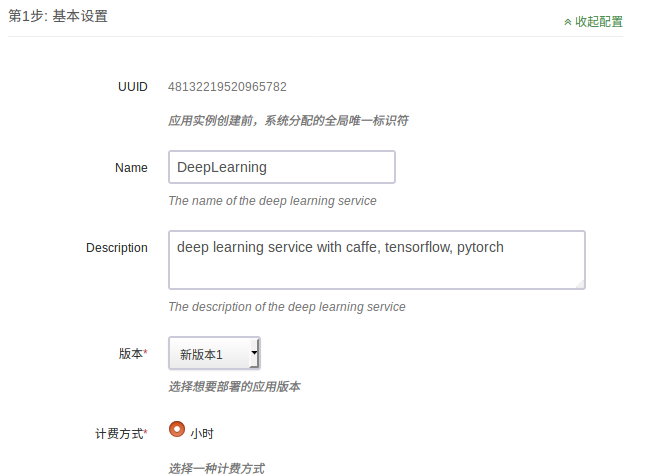
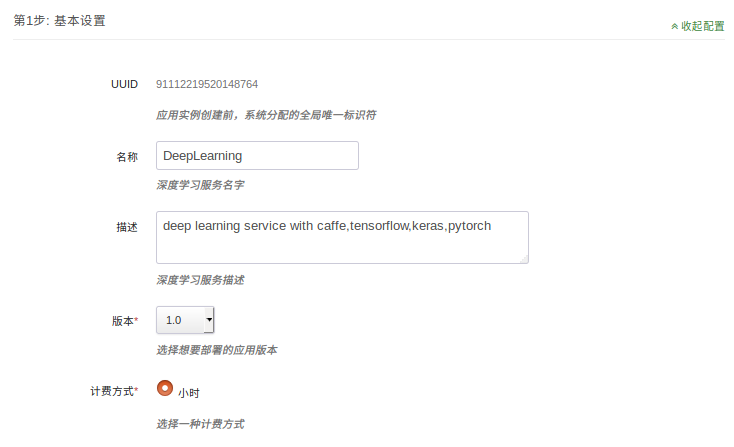
update

diff --git a/README.md b/README.md
@@ -1,11 +1,11 @@
 # DeepLearning on QingCloud AppCenter 用户指南
 ## 深度学习简介
-2016年AlphaGo战胜李世石，预示我们进入了AI时代。深度学习是AI的核心技术，在图像分类，自然语言处理，无人驾驶等众多领域显示出了强大的能力，各大巨头纷纷投入巨资研发。语音助手，人脸识别，外文翻译等等，AI已融入到了我们生活的方方面面，极大了促进了社会的发展。其中Caffe, TensorFlow, PyTorch是主流的深度学习框架，拥有强大的社区支持，是实践深度学习不可或缺的工具。  
+2016年AlphaGo战胜李世石，预示我们进入了AI时代。深度学习是AI的核心技术，在图像分类，自然语言处理，无人驾驶等众多领域显示出了强大的能力，各大巨头纷纷投入巨资研发。语音助手，人脸识别，外文翻译等等，AI已融入到了我们生活的方方面面，极大了促进了社会的发展。其中Caffe, TensorFlow,Keras，PyTorch是主流的深度学习框架，拥有强大的社区支持，是实践深度学习不可或缺的工具。  
 ### Caffe
 Caffe是一个被广泛使用的深度学习框架，由BVLC开发。Caffe容易上手，训练速度快，组件模块化，并拥有大量训练好的经典模型。Caffe在GPU上训练的性能很好，但只能支持单机多GPU的训练，不支持分布式多机训练。
 ### TensorFlow
 TensorFlow由Google大脑主导开发，是一个分布式系统上的大规模深度学习框架。移植性好，可以运行在移动设备上，并支持分布式多机多卡训练，支持多种深度学习模型。TensorFlow还有功能强大的可视化组件TensorBoard，能可视化网络结构和训练过程，对于观察复杂的网络结构和监控长时间、大规模的训练很有帮助。
-### keras
+### Keras
 Keras是一个高层神经网络API，由纯Python编写而成并基Tensorflow、Theano以及CNTK后端。Keras高度模块化，能快速搭建神经网络，并且非常容易上手。
 ### PyTorch
 PyTorch从Torch发展而来，并经过了大量改进，由FaceBook AI团队主导开发。不同于TensorFlow，PyTorch采用动态计算图的方式，并提供良好的python接口，代码简单灵活，使用起来非常方便。内存分配也经过了优化，能支持分布式多机训练。
